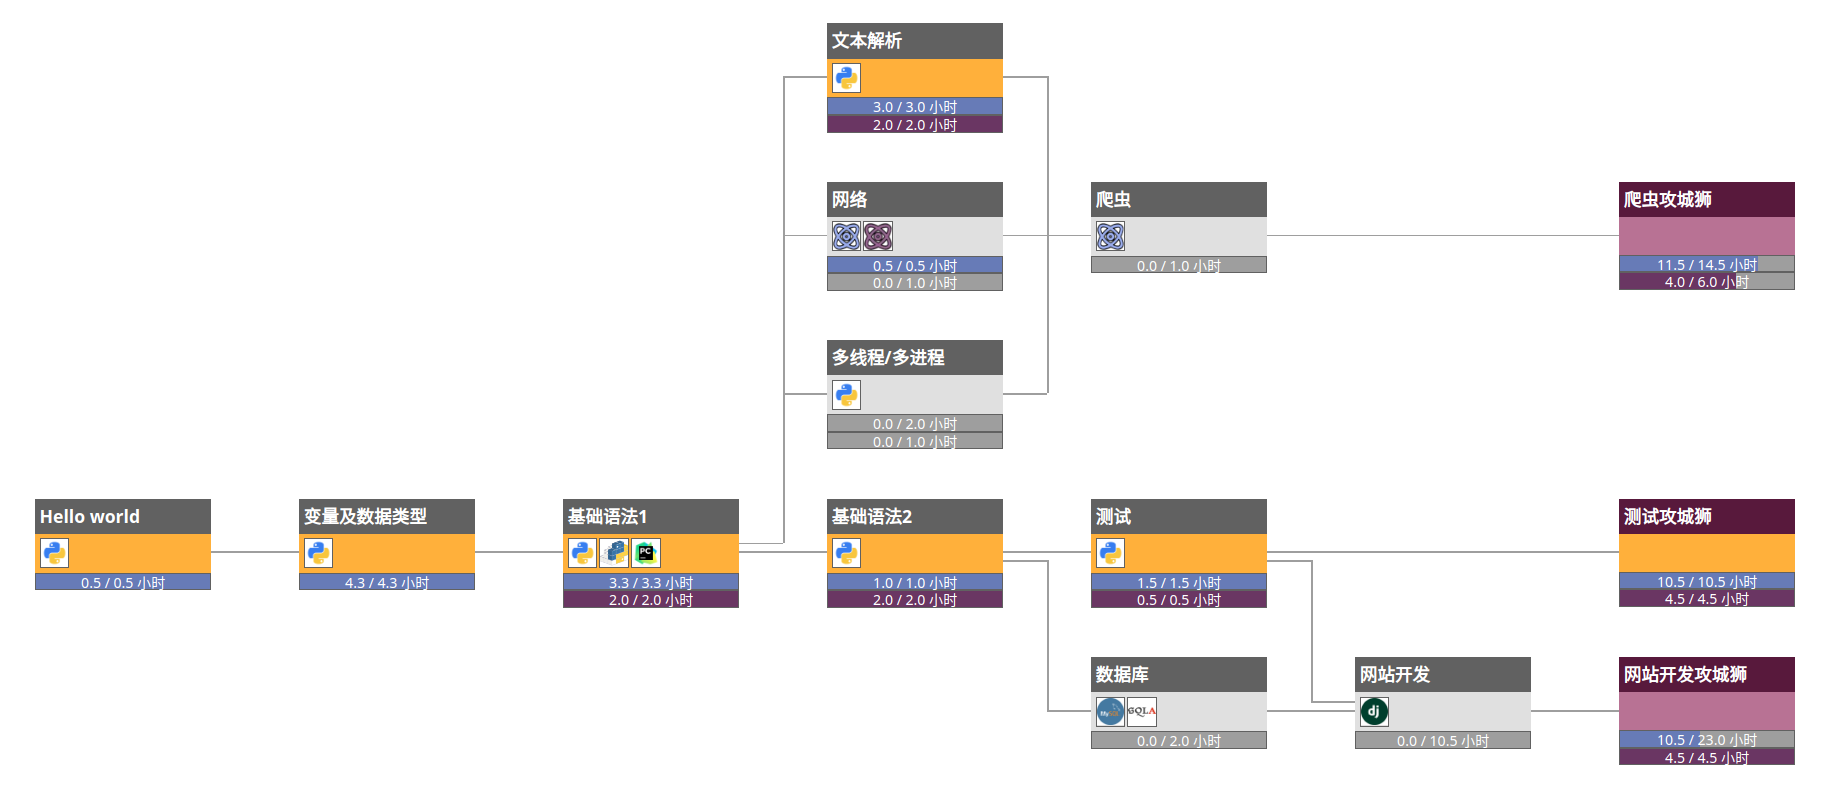
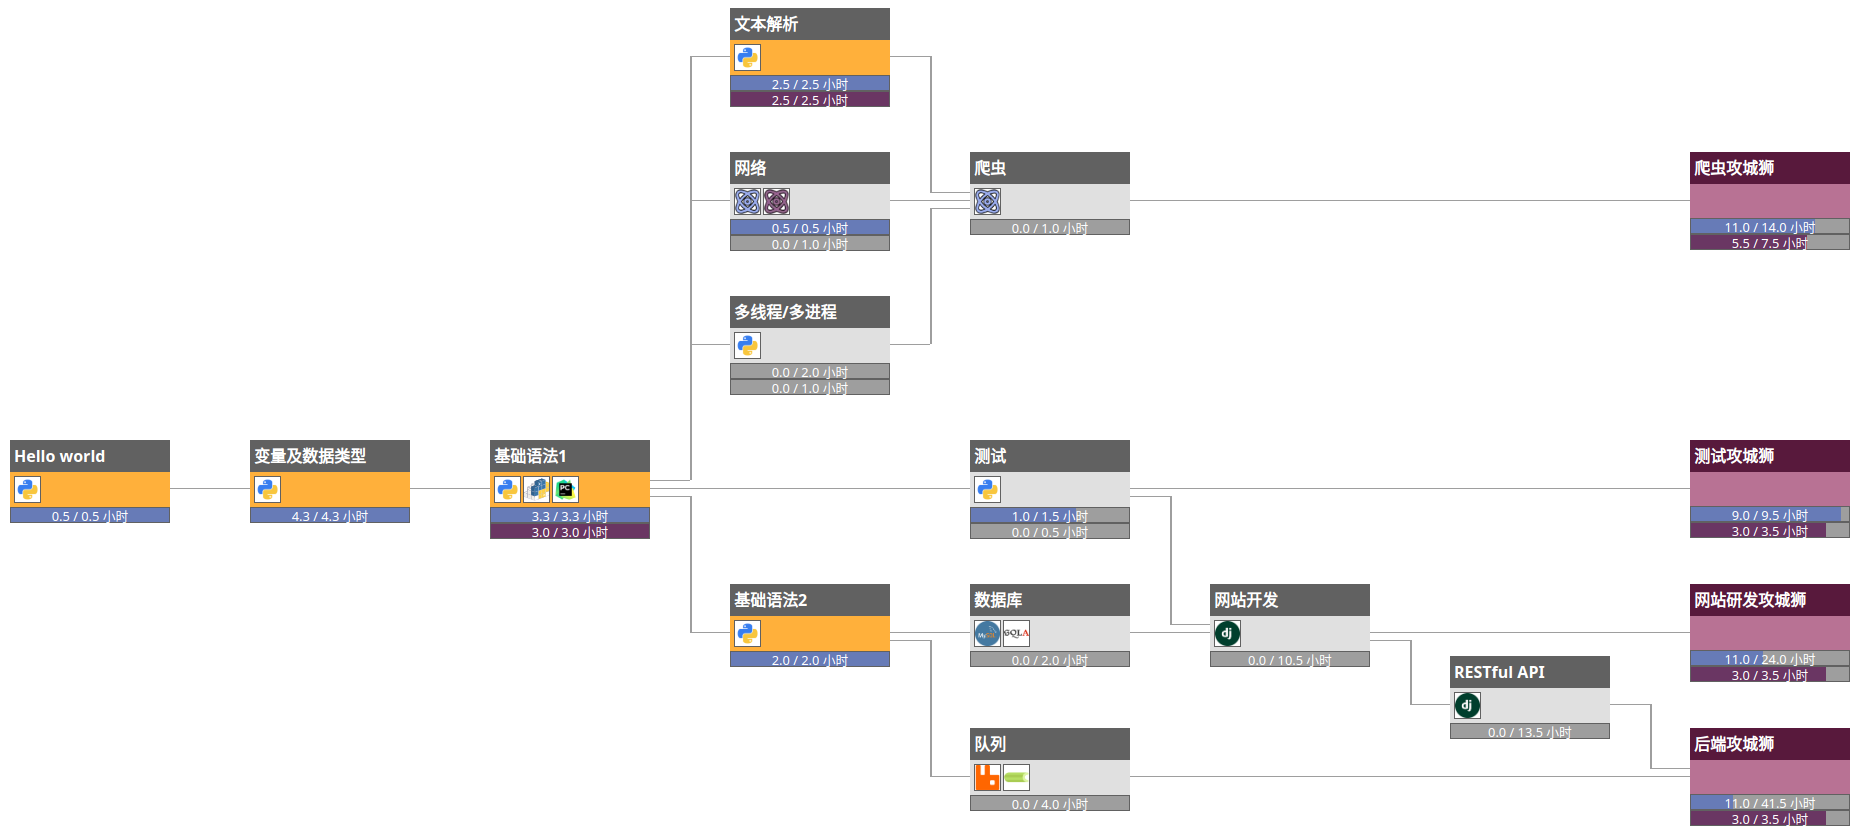
update materials

Changed region(s): [[0.0, 0.0, 0.9967, 0.9975], [0.8721, 0.1814, 0.9967, 0.3627], [0.4049, 0.5743, 0.4361, 0.6045]]

diff --git a/技能树/Python攻城狮技能树/后端攻城狮技能树.md b/技能树/Python攻城狮技能树/后端攻城狮技能树.md
@@ -1,4 +1,4 @@
-# 测试攻城狮技能树
+# 后端攻城狮技能树
 ## Hello world<br />
 <a href="https://blog.csdn.net/Wang_Jiankun/article/details/80565719" target="_blank">安装Python</a><br />
 <a href="https://www.w3school.com.cn/python/python_getstarted.asp" target="_blank">Hello World程序</a><br />
@@ -35,3 +35,31 @@
 <a href="https://www.liaoxuefeng.com/wiki/1016959663602400/1017604210683936" target="_blank">单元测试</a><br />
 <a href="https://www.liaoxuefeng.com/wiki/1016959663602400/1017605739507840" target="_blank">文档测试</a><br />
 <a href="https://www.cnblogs.com/liaofeifight/p/5148717.html" target="_blank">nose</a><br />
+## 基础语法2<br />
+<a href="https://pythonhowto.readthedocs.io/zh_CN/latest/iterator.html" target="_blank">生成器和迭代器</a><br />
+<a href="https://www.runoob.com/w3cnote/python-func-decorators.html" target="_blank">装饰器</a><br />
+## 数据库<br />
+<a href="https://www.yiibai.com/python/python_database_access.html" target="_blank">PyMySQL</a><br />
+<a href="https://zhuanlan.zhihu.com/p/91169446" target="_blank">SQLAlchemy</a><br />
+## 网站开发<br />
+<a href="https://docs.djangoproject.com/zh-hans/4.0/intro/tutorial01/" target="_blank">Django实例教程 - 1</a><br />
+<a href="https://docs.djangoproject.com/zh-hans/4.0/intro/tutorial02/" target="_blank">Django实例教程 - 2</a><br />
+<a href="https://docs.djangoproject.com/zh-hans/4.0/intro/tutorial03/" target="_blank">Django实例教程 - 3</a><br />
+<a href="https://docs.djangoproject.com/zh-hans/4.0/intro/tutorial04/" target="_blank">Django实例教程 - 4</a><br />
+<a href="https://docs.djangoproject.com/zh-hans/4.0/intro/tutorial05/" target="_blank">Django实例教程 - 5</a><br />
+<a href="https://docs.djangoproject.com/zh-hans/4.0/intro/tutorial06/" target="_blank">Django实例教程 - 6</a><br />
+<a href="https://docs.djangoproject.com/zh-hans/4.0/intro/tutorial07/" target="_blank">Django实例教程 - 7</a><br />
+## RESTful API<br />
+<a href="https://pythondjango.cn/django/rest-framework/1-RESTfull-API-why-DRF/" target="_blank">DRF - 为什么要学习Django REST Framework (DRF), 什么是符合RESTful规范的API?</a><br />
+<a href="https://pythondjango.cn/django/rest-framework/2-first-blog-API/" target="_blank">DRF - 以博客为例使用DRF的序列化器和基于函数的视图开发API</a><br />
+<a href="https://pythondjango.cn/django/rest-framework/3-CBV-APIView-viewsets/" target="_blank">DRF - 基于类的视图APIView, GenericAPIView和视图集(ViewSet)</a><br />
+<a href="https://pythondjango.cn/django/rest-framework/4-DRF-serializer-advanced/" target="_blank">DRF - 玩转序列化器(Serializer)</a><br />
+<a href="https://pythondjango.cn/django/rest-framework/5-permissions/" target="_blank">DRF - 认证与权限</a><br />
+<a href="https://pythondjango.cn/django/rest-framework/6-authentication/" target="_blank">DRF - 认证详解与Token认证</a><br />
+<a href="https://pythondjango.cn/django/rest-framework/7-jwt-token-authentication/" target="_blank">DRF - JWT认证</a><br />
+<a href="https://pythondjango.cn/django/rest-framework/8-pagination/" target="_blank">DRF - 分页</a><br />
+<a href="https://pythondjango.cn/django/rest-framework/9-filter-ordering/" target="_blank">DRF - 过滤与排序</a><br />
+<a href="https://pythondjango.cn/django/rest-framework/10-throttling/" target="_blank">DRF - 限流</a><br />
+## 队列<br />
+<a href="https://segmentfault.com/a/1190000014041428" target="_blank">RabbitMQ - 消息队列</a><br />
+<a href="https://blog.csdn.net/chenqiuge1984/article/details/80127446" target="_blank">celery - 任务队列</a><br />

diff --git a/技能树/Python攻城狮技能树/网站攻城狮技能树.md b/技能树/Python攻城狮技能树/网站攻城狮技能树.md
@@ -1,4 +1,4 @@
-# 网站研发攻城狮技能树
+# 网站攻城狮技能树
 ## Hello world<br />
 <a href="https://blog.csdn.net/Wang_Jiankun/article/details/80565719" target="_blank">安装Python</a><br />
 <a href="https://www.w3school.com.cn/python/python_getstarted.asp" target="_blank">Hello World程序</a><br />
@@ -26,18 +26,18 @@
 <a href="https://www.w3school.com.cn/python/python_try_except.asp" target="_blank">异常处理</a><br />
 <a href="https://www.w3school.com.cn/python/python_comments.asp" target="_blank">注释</a><br />
 <a href="https://www.runoob.com/python3/python-comprehensions.html" target="_blank">推导式</a><br />
+<a href="https://www.w3school.com.cn/python/python_classes.asp" target="_blank">类和对象</a><br />
+<a href="https://www.w3school.com.cn/python/python_inheritance.asp" target="_blank">类的继承</a><br />
 <a href="https://www.runoob.com/python3/python3-stdlib.html" target="_blank">标准库概览</a><br />
 <a href="https://www.w3school.com.cn/python/python_pip.asp" target="_blank">Pip</a><br />
 <a href="https://zhuanlan.zhihu.com/p/161617457" target="_blank">PyCharm IDE</a><br />
-## 基础语法2<br />
-<a href="https://www.w3school.com.cn/python/python_classes.asp" target="_blank">类和对象</a><br />
-<a href="https://www.w3school.com.cn/python/python_inheritance.asp" target="_blank">类的继承</a><br />
-<a href="https://pythonhowto.readthedocs.io/zh_CN/latest/iterator.html" target="_blank">生成器和迭代器</a><br />
-<a href="https://www.runoob.com/w3cnote/python-func-decorators.html" target="_blank">装饰器</a><br />
 ## 测试<br />
 <a href="https://www.liaoxuefeng.com/wiki/1016959663602400/1017604210683936" target="_blank">单元测试</a><br />
 <a href="https://www.liaoxuefeng.com/wiki/1016959663602400/1017605739507840" target="_blank">文档测试</a><br />
 <a href="https://www.cnblogs.com/liaofeifight/p/5148717.html" target="_blank">nose</a><br />
+## 基础语法2<br />
+<a href="https://pythonhowto.readthedocs.io/zh_CN/latest/iterator.html" target="_blank">生成器和迭代器</a><br />
+<a href="https://www.runoob.com/w3cnote/python-func-decorators.html" target="_blank">装饰器</a><br />
 ## 数据库<br />
 <a href="https://www.yiibai.com/python/python_database_access.html" target="_blank">PyMySQL</a><br />
 <a href="https://zhuanlan.zhihu.com/p/91169446" target="_blank">SQLAlchemy</a><br />

diff --git a/技能树/Python攻城狮技能树/爬虫攻城狮技能树.md b/技能树/Python攻城狮技能树/爬虫攻城狮技能树.md
@@ -26,14 +26,16 @@
 <a href="https://www.w3school.com.cn/python/python_try_except.asp" target="_blank">异常处理</a><br />
 <a href="https://www.w3school.com.cn/python/python_comments.asp" target="_blank">注释</a><br />
 <a href="https://www.runoob.com/python3/python-comprehensions.html" target="_blank">推导式</a><br />
+<a href="https://www.w3school.com.cn/python/python_classes.asp" target="_blank">类和对象</a><br />
+<a href="https://www.w3school.com.cn/python/python_inheritance.asp" target="_blank">类的继承</a><br />
 <a href="https://www.runoob.com/python3/python3-stdlib.html" target="_blank">标准库概览</a><br />
 <a href="https://www.w3school.com.cn/python/python_pip.asp" target="_blank">Pip</a><br />
 <a href="https://zhuanlan.zhihu.com/p/161617457" target="_blank">PyCharm IDE</a><br />
 ## 文本解析<br />
 <a href="https://www.w3school.com.cn/python/python_regex.asp" target="_blank">正则表达式</a><br />
 <a href="https://www.w3school.com.cn/python/python_json.asp" target="_blank">JSON格式</a><br />
-<a href="https://geek-docs.com/python/python-tutorial/python-csv.html" target="_blank">CSV格式</a><br />
 <a href="https://www.jianshu.com/p/424e037c5dd8" target="_blank">Beautiful Soup入门</a><br />
+<a href="https://geek-docs.com/python/python-tutorial/python-csv.html" target="_blank">CSV格式</a><br />
 <a href="https://beautifulsoup.readthedocs.io/zh_CN/v4.4.0/" target="_blank">Beautiful Soup进阶</a><br />
 ## 网络<br />
 <a href="https://www.liaoxuefeng.com/wiki/1016959663602400/1183249464292448" target="_blank">Requests</a><br />

diff --git a/README.md b/README.md
@@ -7,4 +7,5 @@
 也可以访问文字版：<br />
 [Python - 爬虫攻城狮技能树](技能树/Python攻城狮技能树/爬虫攻城狮技能树.md)<br />
 [Python - 测试攻城狮技能树](技能树/Python攻城狮技能树/测试攻城狮技能树.md)<br />
-[Python - 网站研发攻城狮技能树](技能树/Python攻城狮技能树/网站研发攻城狮技能树.md)<br />
+[Python - 网站攻城狮技能树](技能树/Python攻城狮技能树/网站攻城狮技能树.md)<br />
+[Python - 后端攻城狮技能树](技能树/Python攻城狮技能树/后端攻城狮技能树.md)<br />
